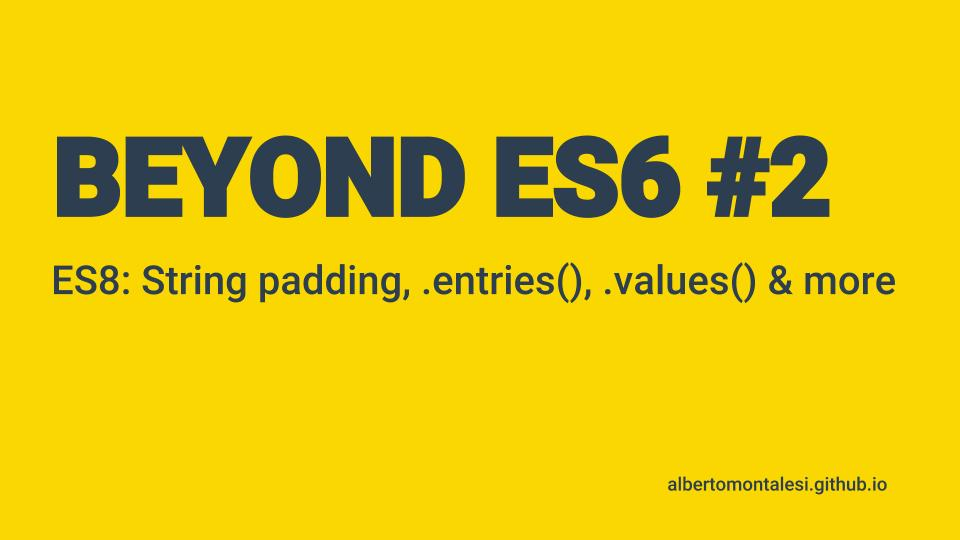
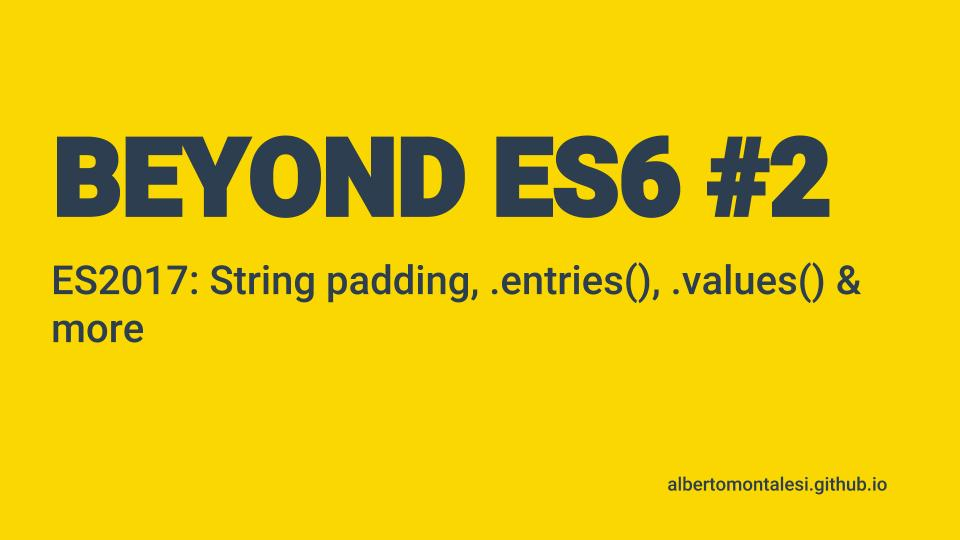
change post images for beyond es6 course

Changed region(s): [[0.0938, 0.4741, 0.9375, 0.563], [0.0312, 0.5926, 0.1562, 0.6519]]

diff --git a/_pages/beyond-ES6-course.html b/_pages/beyond-ES6-course.html
@@ -1,6 +1,6 @@
 ---
 layout: archive
-title: "Beyond ES6: ES7, ES8 & ES9"
+title: "Beyond ES6: ES2016/ ES2017 / ES2018"
 permalink: /courses/beyond-es6
 author_profile: true
 ---
@@ -12,7 +12,7 @@ author_profile: true
       <img src="https://albertomontalesi.github.io/assets/images/BEYOND-ES6/beyond-es6-card-1.jpg" alt="beyond es6">
     </a>
     <h3>
-      <a href="https://albertomontalesi.github.io/javascript/Beyond-ES6-1-ES7-includes-and-exponential-operator">JavaScript beyond ES6#1 - ES7: `includes()` & exponential operator
+      <a href="https://albertomontalesi.github.io/javascript/Beyond-ES6-1-ES7-includes-and-exponential-operator">JavaScript beyond ES6#1 - ES2016: `includes()` & exponential operator
       </a>
     </h3>
   </div>
@@ -23,18 +23,29 @@ author_profile: true
   </a>
   <h3>
 <a href="https://albertomontalesi.github.io/javascript/Beyond-ES6-2-ES8-string-padding-object-entries-object-values-and-more/">
-  JavaScript beyond ES6#2 - ES8: string padding, `Object.entries()`, `Object.values()` and more
+  JavaScript beyond ES6#2 - ES2017: string padding, `Object.entries()`, `Object.values()` and more
     </a>
   </h3>
 </div>
 
 <div class="course-card">
   <a href="https://albertomontalesi.github.io/javascript/Beyond-ES6-3-ES8-async-and-await">
-    <img src="https://albertomontalesi.github.io/assets/images/BEYOND-ES6/beyond-es6-card-2.jpg" alt="beyond es6">
+    <img src="https://albertomontalesi.github.io/assets/images/BEYOND-ES6/beyond-es6-card-3.jpg" alt="beyond es6">
   </a>
   <h3>
     <a href="https://albertomontalesi.github.io/javascript/Beyond-ES6-3-ES8-async-and-await">
-      JavaScript beyond ES6#3 - ES8: `async` and `await`
+      JavaScript beyond ES6#3 - ES2017: `async` and `await`
+    </a>
+  </h3>
+</div>
+
+<div class="course-card">
+  <a href="https://albertomontalesi.github.io/javascript/Beyond-ES6-4-ES9-what-is-coming">
+    <img src="https://albertomontalesi.github.io/assets/images/BEYOND-ES6/beyond-es6-card-4.jpg" alt="beyond es6">
+  </a>
+  <h3>
+    <a href="https://albertomontalesi.github.io/javascript/Beyond-ES6-4-ES9-what-is-coming">
+      JavaScript beyond ES6#3 - ES2018: `async` and `await`
     </a>
   </h3>
 </div>

diff --git a/_posts/2018-05-10-Beyond-ES6#4-ES9-what-is-coming.md b/_posts/2018-05-10-Beyond-ES6#4-ES9-what-is-coming.md
@@ -1,5 +1,5 @@
 ---
-title: "JavaScript beyond ES6#4 - ES9: what's coming?"
+title: "JavaScript beyond ES6#4 - ES2018: what's coming?"
 categories:
   - JavaScript
 tags:
@@ -7,12 +7,16 @@ tags:
   - guide
 ---
 
-ES 2018 (ES9) has not been released yet but we can look at the proposals for features that have reached the stage 4 (the final stage) and that will be included in the new upcoming version of ECMAScript. 
+![beyond-es6-4](https://albertomontalesi.github.io/assets/images/BEYOND-ES6/beyond-es6-card-4.jpg)
+
+ES2018 has not been released yet but we can look at the proposals for features that have reached the stage 4 (the final stage) and that will be included in the new upcoming version of ECMAScript. 
 You can find the list on [github](https://github.com/tc39/proposals/blob/master/finished-proposals.md).
 
-## Rest/Spred for objects
+&nbsp;
 
-Now we can use the rest/spread syntax for object, let's look at how:
+## Rest / Spred for objects
+ 
+Now we can use the rest/spread syntax for objects, let's look at how:
 
 
 ```js
@@ -23,13 +27,13 @@ let myObj = {
   d:8,
 }
 
-// we use the ret operator to grab everything else left in the object.
+// we use the rest operator to grab everything else left in the object.
 let { a, b, ...z } = myObj;
 console.log(a);      // 1
 console.log(b);      // 3
 console.log(z);   // {c: 5, d: 8}
 
-// using the spreada syntax we cloned our Object 
+// using the spread syntax we cloned our Object 
 let clone = { ...myObj };
 console.log(clone);
 // {a: 1, b: 3, c: 5, d: 8}
@@ -42,7 +46,7 @@ console.log(clone);
 With Asynchronous Iteration we can iterate asynchronously over our data.
 
 [From the documentation:](https://github.com/tc39/proposal-async-iteration)
-> An async iterator is much like an iterator, except that its next() method returns a promise for a { value, done } pair.
+> An async iterator is much like an iterator, except that its `next()` method returns a promise for a `{ value, done }` pair.
 
 To do so, we will use a `for-await-of` loop.
 
@@ -84,7 +88,7 @@ fetch("your-url")
 - [`s (dotAll)` flag for regular expressions](https://github.com/tc39/proposal-regexp-dotall-flag)
 - [RegExp named capture groups](https://github.com/tc39/proposal-regexp-named-groups)
 - [RegExp Lookbehind Assertions](https://github.com/tc39/proposal-regexp-lookbehind)
--[RegExp Unicode Property Escapes](https://github.com/tc39/proposal-regexp-lookbehind)
+- [RegExp Unicode Property Escapes](https://github.com/tc39/proposal-regexp-lookbehind)
 
 &nbsp;
 
@@ -96,18 +100,13 @@ This introduces a new `s` flag for ECMAScript regular expressions that makes `.`
 /foo.bar/s.test('foo\nbar');
 // → true
 ```
+&nbsp; 
 
 ### RegExp named capture groups
 
 [From the documentation:](https://github.com/tc39/proposal-regexp-named-groups)
 
-Numbered capture groups allow one to refer to certain portions of a string that a regular expression matches. Each capture group is assigned a unique number and can be referenced using that number, but this can make a regular expression hard to grasp and refactor.
-
-For example, given` /(\d{4})-(\d{2})-(\d{2})/` that matches a date, one cannot be sure which group corresponds to the month and which one is the day without examining the surrounding code. Also, if one wants to swap the order of the month and the day, the group references should also be updated.
-
-A capture group can be given a name using the `(?<name>...)` syntax, for any identifier `name`. The regular expression for a date then can be written as `/(?<year>\d{4})-(?<month>\d{2})-(?<day>\d{2})/u`. Each name should be unique and follow the grammar for ECMAScript IdentifierName.
-
-Named groups can be accessed from properties of a `groups` property of the regular expression result. Numbered references to the groups are also created, just as for non-named groups. For example:
+>Numbered capture groups allow one to refer to certain portions of a string that a regular expression matches. Each capture group is assigned a unique number and can be referenced using that number, but this can make a regular expression hard to grasp and refactor.</br> </br> For example, given` /(\d{4})-(\d{2})-(\d{2})/` that matches a date, one cannot be sure which group corresponds to the month and which one is the day without examining the surrounding code. Also, if one wants to swap the order of the month and the day, the group references should also be updated.</br> </br> A capture group can be given a name using the `(?<name>...)` syntax, for any identifier `name`. The regular expression for a date then can be written as `/(?<year>\d{4})-(?<month>\d{2})-(?<day>\d{2})/u`. Each name should be unique and follow the grammar for ECMAScript IdentifierName.</br> </br> Named groups can be accessed from properties of a `groups` property of the regular expression result. Numbered references to the groups are also created, just as for non-named groups. For example:
 
 ``` js
 let re = /(?<year>\d{4})-(?<month>\d{2})-(?<day>\d{2})/u;
@@ -124,17 +123,15 @@ let result = re.exec('2015-01-02');
 let {groups: {one, two}} = /^(?<one>.*):(?<two>.*)$/u.exec('foo:bar');
 console.log(`one: ${one}, two: ${two}`);  // prints one: foo, two: bar
 ```
+&nbsp; 
 
 ### RegExp Lookbehind Assertions
 
 [From the documentation:](https://github.com/tc39/proposal-regexp-lookbehind)
 
-With lookbehind assertions, one can make sure that a pattern is or isn't preceded by another, e.g. matching a dollar amount without capturing the dollar sign.
+> With lookbehind assertions, one can make sure that a pattern is or isn't preceded by another, e.g. matching a dollar amount without capturing the dollar sign. </br></br> Positive lookbehind assertions are denoted as `(?<=...)` and they ensure that the pattern contained within precedes the pattern following the assertion. For example, if one wants to match a dollar amount without capturing the dollar sign, `/(?<=\$)\d+(\.\d*)?/` can be used, matching `'$10.53'` and returning `'10.53'`. This, however, wouldn't match `€10.53`.</br></br> Negative lookbehind assertions are denoted as `(?<!...) `and, on the other hand, make sure that the pattern within doesn't precede the pattern following the assertion. For example, `/(?<!\$)\d+(?:\.\d*)/` wouldn't match `'$10.53'`, but would `'€10.53'`.
 
-Positive lookbehind assertions are denoted as `(?<=...)` and they ensure that the pattern contained within precedes the pattern following the assertion. For example, if one wants to match a dollar amount without capturing the dollar sign, `/(?<=\$)\d+(\.\d*)?/` can be used, matching `'$10.53'` and returning `'10.53'`. This, however, wouldn't match `€10.53`.
-
-Negative lookbehind assertions are denoted as `(?<!...) `and, on the other hand, make sure that the pattern within doesn't precede the pattern following the assertion. For example, `/(?<!\$)\d+(?:\.\d*)/` wouldn't match `'$10.53'`, but would `'€10.53'`.
-
+&nbsp; 
 
 ### RegExp Unicode Property Escapes
 
@@ -148,11 +145,14 @@ regexGreekSymbol.test('π');
 // → true
 ```
 
+&nbsp;
+
 ## Lifting template literals restriction
 
 When using *tagged* template literals the restriction on escape sequences are removed.
 
 You can read more [here.](https://tc39.github.io/proposal-template-literal-revision/#sec-template-literals)
+
 --- 
 
 &nbsp;

diff --git a/_posts/2018-05-05-Beyond-ES6#2: ES8-string-padding-object-entries-object-values-and-more .md b/_posts/2018-05-05-Beyond-ES6#2: ES8-string-padding-object-entries-object-values-and-more .md
@@ -1,5 +1,5 @@
 ---
-title: "JavaScript beyond ES6#2 - ES8: string padding, `Object.entries()`, `Object.values()` and more"
+title: "JavaScript beyond ES6#2 - ES2017: string padding, `Object.entries()`, `Object.values()` and more"
 categories:
   - JavaScript
 tags:
@@ -9,7 +9,7 @@ tags:
 
 ![beyond-es6-2](https://albertomontalesi.github.io/assets/images/BEYOND-ES6/beyond-es6-card-2.jpg)
 
-ES8 (or E 2017) introduced many new cool features, which we are going to see here. I will discuss `Async` and `Await` later as they deserve more attention.
+ES2017 introduced many new cool features, which we are going to see here. I will discuss `Async` and `Await` later as they deserve more attention.
 
 ## String padding(`padStart` and `padEnd`)
 
@@ -18,11 +18,11 @@ We can now add some padding to our strings, either at the end (`padEnd`) or at t
 ```js
 "hello".padStart(6);
 // " hello"
-"mystring".padEnd(6);
+"hello".padEnd(6);
 // "hello "
 ```
 
-We said we want 6 as our padding but why in both cases we got only 1 space?
+We said we want 6 as our padding, but why in both cases we got only 1 space?
 It happens because `padStart` and `padEnd` will go and fill the empty spaces. In our example "hello" is 5 letters, and our padding is 6, which leaves only 1 empty space.
 
 Look at this example
@@ -54,13 +54,13 @@ strings.forEach(str => console.log(str.padStart(longestString)));
 //            short
 ```
 
-First we grabbed the longest of our strings and measured its length. We then applied a `padStart` to all the strings based on the length of the longest so that we now have them all perfectly aligned to the right.
+First we grabbed the longest of our strings and measured its length. We then applied a `padStart` to all the strings based on the length of the longest so that we now have all of them perfectly aligned to the right.
 
 &nbsp;
 
 ### Add a custom value to the padding
 
-We are not bound to just add a white space as a pading, we can pass both strings and numbers.
+We are not bound to just add a white space as a padding, we can pass both strings and numbers.
 
 ```js
 "hello".padEnd(13," Alberto");
@@ -79,7 +79,7 @@ Let's first create an Object.
 
 ```js
 const family = {
-  dad: "Jonathan Kent",
+  father: "Jonathan Kent",
   mother: "Martha Kent",
   son: "Clark Kent",
 }
@@ -89,12 +89,12 @@ In previous versions of JavaScript we would have accessed the values inside the 
 
 ```js
 Object.keys(family);
-// (3) ["dad", "mother", "son"]
-family.dad;
+// (3) ["father", "mother", "son"]
+family.father;
 "Jonathan Kent"
 ```
 
-`Object.keys()` returned us only the keys of the object that then had to use to access the values.
+`Object.keys()` returned us only the keys of the object that we then had to use to access the values.
 
 We now have two more ways of accessing our objects:
 
@@ -103,7 +103,7 @@ Object.values(family);
 // (3) ["Jonathan Kent", "Martha Kent", "Clark Kent"]
 
 Object.entries(family);
-// (2) ["dad", "Jonathan Kent"]
+// (2) ["father", "Jonathan Kent"]
 // (2) ["mother", "Martha Kent"]
 // (2) ["son", "Clark Kent"]
 ```
@@ -125,6 +125,7 @@ const myObj = {
     console.log("hello");
   },
 }
+Object.getOwnPropertyDescriptors(myObj);
 // age:{value: 25, writable: true, enumerable: true, configurable: true}
 
 // greet:{value: ƒ, writable: true, enumerable: true, configurable: true}

diff --git a/_posts/2018-03-26-ES6#1-var-let-const.md b/_posts/2018-03-26-ES6#1-var-let-const.md
@@ -10,21 +10,25 @@ tags:
 
 ![ES6-card-1](https://albertomontalesi.github.io/assets/images/ES6/ES6-card-1.jpg)
 
-With the introduction of `let` and `const` in **ES6**, we can now better define our variable depending on our needs. Let's have a look at the major differences between them.
+With the introduction of `let` and `const` in **ES6**, we can now better define our variables depending on our needs. Let's have a look at the major differences between them.
+
+&nbsp;
+
+With the introduction of `let` and `const` in **ES6**, we can now better define our variables depending on our needs. Let's have a look at the major differences between them.
 
 &nbsp;
 
 ## `Var`
 
-`var` are **function scoped**, which means that if we declare them inside a `for` loop (which is a **block** scope) they will be available globally.
+`var` are **function scoped**, which means that if we declare them inside a `for` loop (which is a **block** scope) they will be available even outside of it.
 
 ``` javascript 
 for (var i = 0; i < 10; i++) {
-  var global = "I am available globally";
+  var leak = "I am available outside of the loop";
 }
 
-console.log(global);
-// I am available globally
+console.log(leak);
+// I am available outside of the loop
 
 function myFunc(){
   var functionScoped = "I am available inside this function";
@@ -36,7 +40,7 @@ console.log(functionScoped);
 // ReferenceError: functionScoped is not defined
 ```
 
-In the first example the value of the `var` global leaked out of the block-scope and could be accessed from the global scope, whereas in the second example `var` was confined inside a function-scope and we could not access it from outside.
+In the first example the value of the `var`  leaked out of the block-scope and could be accessed from outside, whereas in the second example `var` was confined inside a function-scope and we could not access it from outside.
 
 &nbsp;
 
@@ -158,10 +162,6 @@ The second opinion comes from [Kyle Simpson:]( blog.getify.com/constantly-confus
 - Refactor `let` to `const` only after some code has to be written, and you're reasonably sure that you've got a case where there shouldn't be variable reassignment.
 
 Which opinion to follow is entirely up to you. As always, do your own research and figure out which one you think is the best.
-
-You may want to [read this article](https://medium.com/@sbakkila/javascript-es-6-let-and-the-dreaded-temporal-dead-zone-85b89314d168) to understand how `let` affects your performances compared to `var` before you choose to follow either [Mathias Bynes](https://mathiasbynens.be/notes/es6-const) or [Kyle Simpson]( blog.getify.com/constantly-confusing-const/).
-
-
 
 ---
 

diff --git a/_posts/2018-05-04-Beyond-ES6#1:ES7-includes-and-exponential-operator.md b/_posts/2018-05-04-Beyond-ES6#1:ES7-includes-and-exponential-operator.md
@@ -1,5 +1,5 @@
 ---
-title: "JavaScript beyond ES6#1 - ES7: `includes()` & exponential operator"
+title: "JavaScript beyond ES6#1 - ES2016: `includes()` & exponential operator"
 categories:
   - JavaScript
 tags:
@@ -9,9 +9,9 @@ tags:
 
 ![beyond-es6-1](https://albertomontalesi.github.io/assets/images/BEYOND-ES6/beyond-es6-card-1.jpg)
 
-## Everything new in ES7
+## Everything new in ES2016
 
-ES7 (or ES 2016) introduced only two new features :
+ES2016 introduced only two new features :
 
 - `Array.prototype.includes()`
 - the exponential operator
@@ -34,7 +34,7 @@ array.includes(3);
 
 ### Combine `includes()` with `fromIndex`
 
-We can provide `.includes()` with an index where to begin searching for an element. Default is 0, but we can also pass a negative value .
+We can provide `.includes()` with an index where to begin searching for an element. Default is 0, but we can also pass a negative value.
 
 The first value we pass is the element to search and the second one is the index:
 
@@ -51,9 +51,9 @@ array.includes(11,-3);
 // true
 ```
 
-`array.includes(5,4);` returned `false` because despite the array actually contains the number 5, it does so at the index 2 but we started looking at position 4. That's why we coulndt find it and it returned `false`.
+`array.includes(5,4);` returned `false` because, despite the array actually contains the number 5, it is at the index 2 but we started looking at position 4. That's why we couldn't find it and it returned `false`.
 
-`array.includes(1,-1);` returned `false` because we started looking at the index -1 and then continue from that point.
+`array.includes(1,-1);` returned `false` because we started looking at the index -1 (which is the last element of the array) and then continued from that point onwards.
 
 `array.includes(11,-3);` returned `true` because we went back to the index -3 and moved up, finding the value 11 on our path.
 
@@ -61,7 +61,7 @@ array.includes(11,-3);
 
 ## The exponential operator
 
-Prior to ES7 we would have done this:
+Prior to ES2016 we would have done this:
 
 ``` js
 Math.pow(2,2);

diff --git a/_posts/2018-05-09-Beyond-ES6#3:ES8-async-and-await.md b/_posts/2018-05-09-Beyond-ES6#3:ES8-async-and-await.md
@@ -1,5 +1,5 @@
 ---
-title: "JavaScript beyond ES6#3 - ES8: `async` and `await`"
+title: "JavaScript beyond ES6#3 - ES2017: `async` and `await`"
 categories:
   - JavaScript
 tags:
@@ -9,7 +9,7 @@ tags:
 
 ![beyond-es6-3](https://albertomontalesi.github.io/assets/images/BEYOND-ES6/beyond-es6-card-3.jpg)
 
-ES8 (or ES2017) introuced a new way of working with promises, called "async/await".
+ES2017 introuced a new way of working with promises, called "async/await".
 
 &nbsp;
 
@@ -88,7 +88,9 @@ function walk(amount) {
   });
 }
 
+// create an async function
 async function go() {
+  // use the keyword await to wait for the response
   const res = await walk(500);
   console.log(res);
   const res2 = await walk(900);
@@ -153,7 +155,7 @@ async function asyncFunc() {
   try {
     let response = await fetch('http:your-url');
   } catch(err) {
-  }
+    }
     console.log(err); 
 }
 
@@ -161,7 +163,7 @@ asyncFunc();
 // TypeError: failed to fetch
 ```
 
-We use `try...catch` to grab the error but in case we do not have them we can still catch the error like this:
+We use `try...catch` to grab the error but in a case where  we do not have them we can still catch the error like this:
 
 
 ``` js
